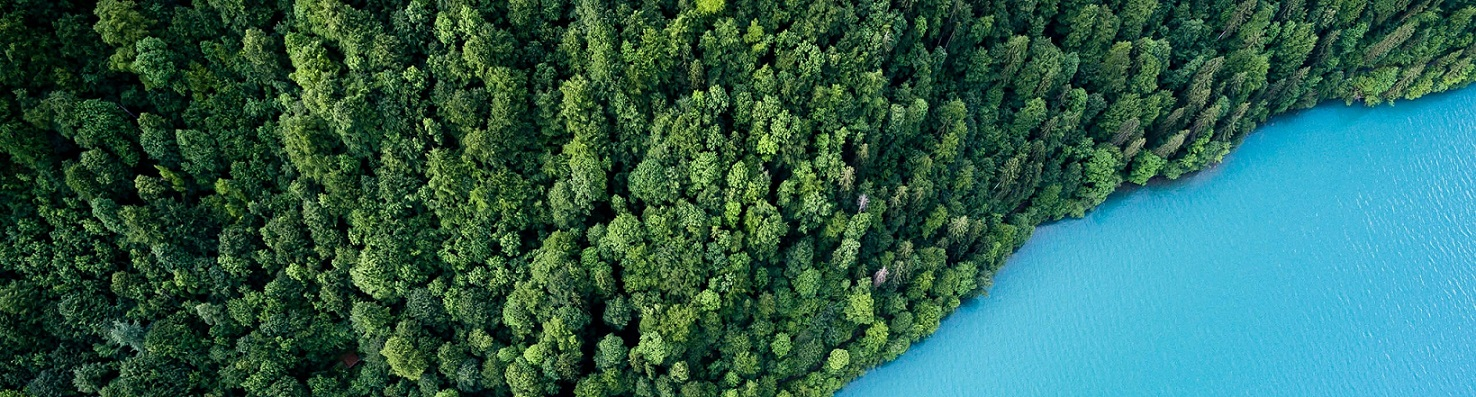
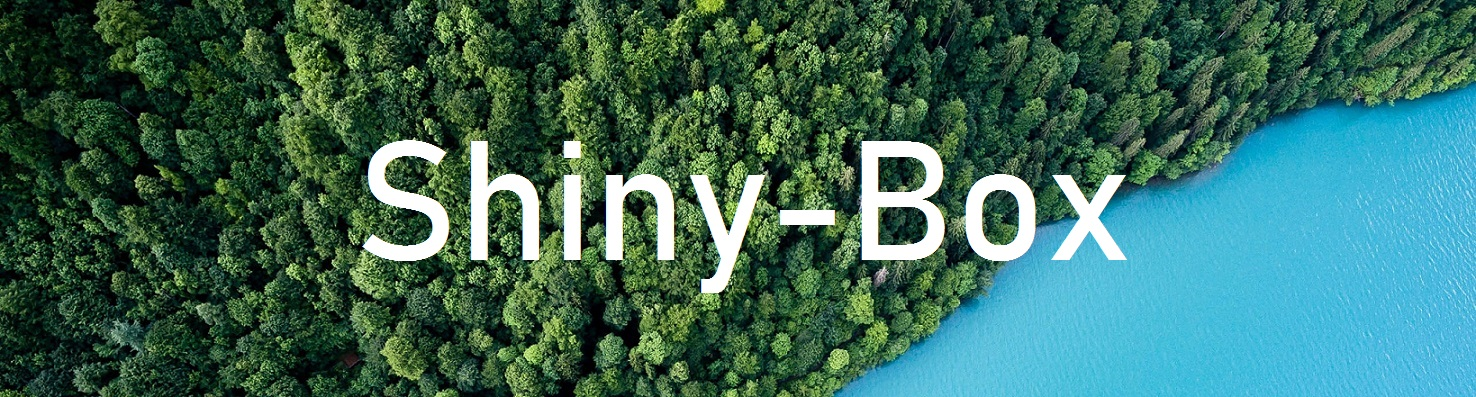
refine ui

Changed region(s): [[0.2493, 0.3325, 0.7791, 0.7557], [0.374, 0.3325, 0.4051, 0.3929]]

diff --git a/README.md b/README.md
@@ -1,5 +1,7 @@
 # Shiny-Box
 
+<ON DEVELOPMENT>
+
 Collection of frequently asked (and more advanced) shiny features in a box.
 
 Link-Shiny: https://nabiilahardini.shinyapps.io/Shiny-Box
